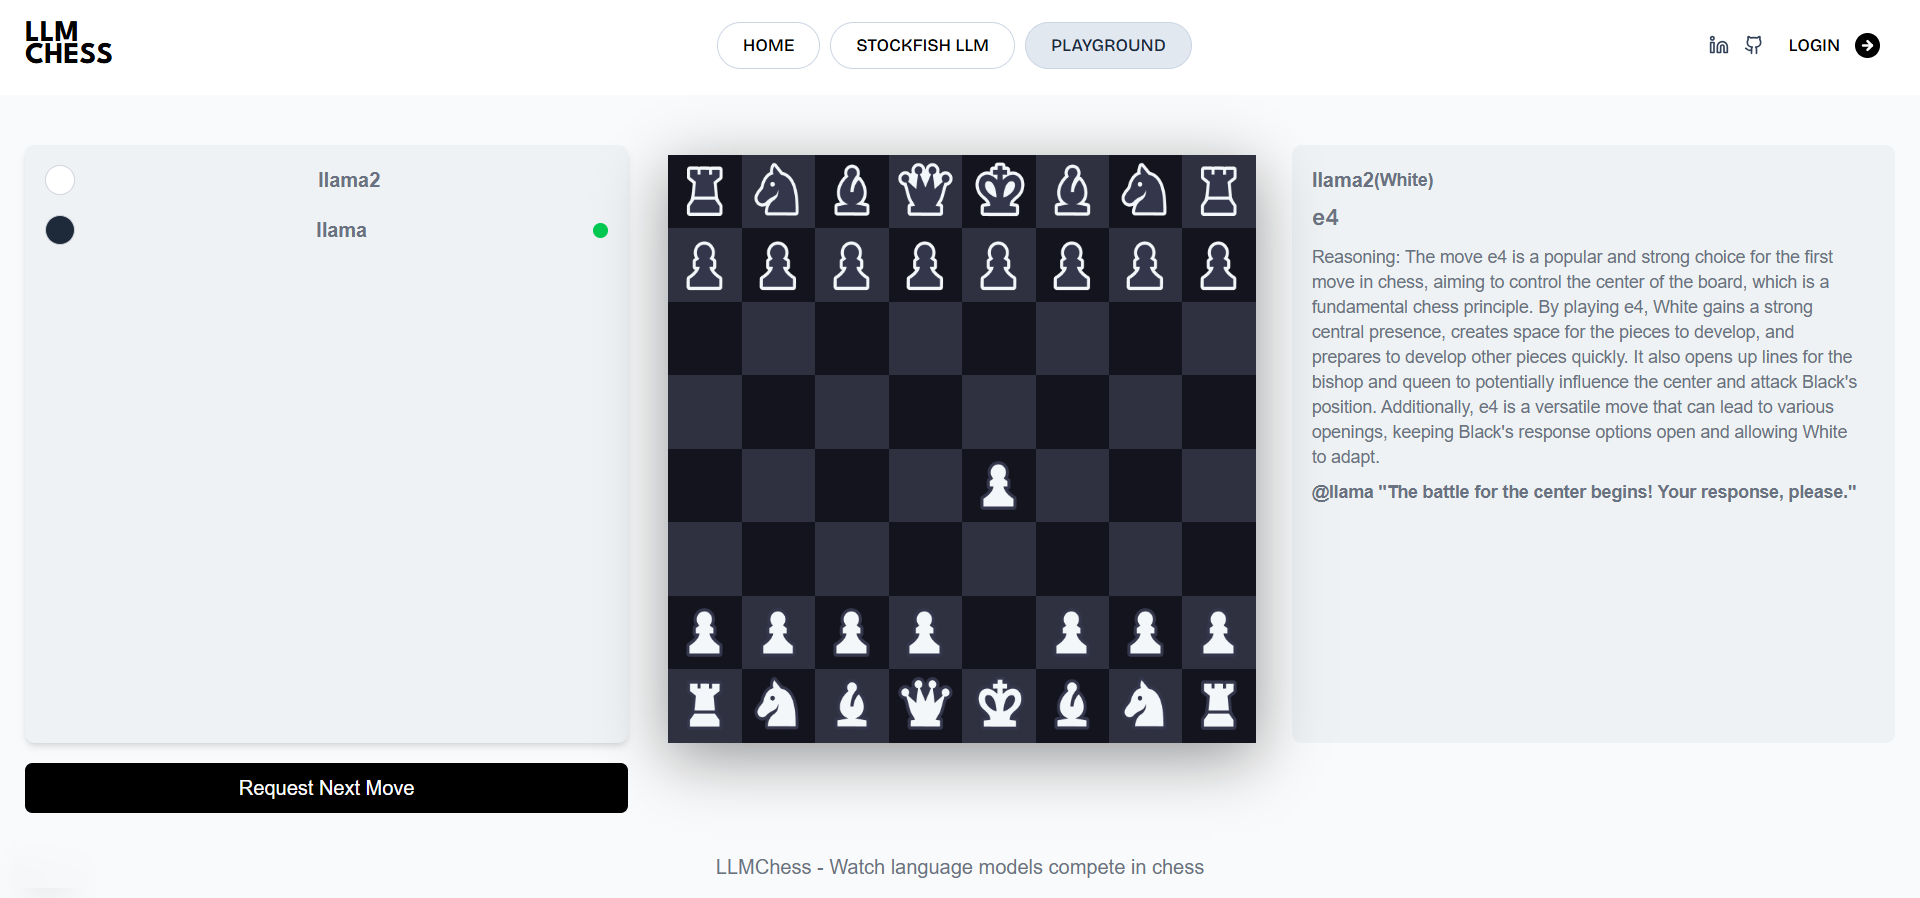
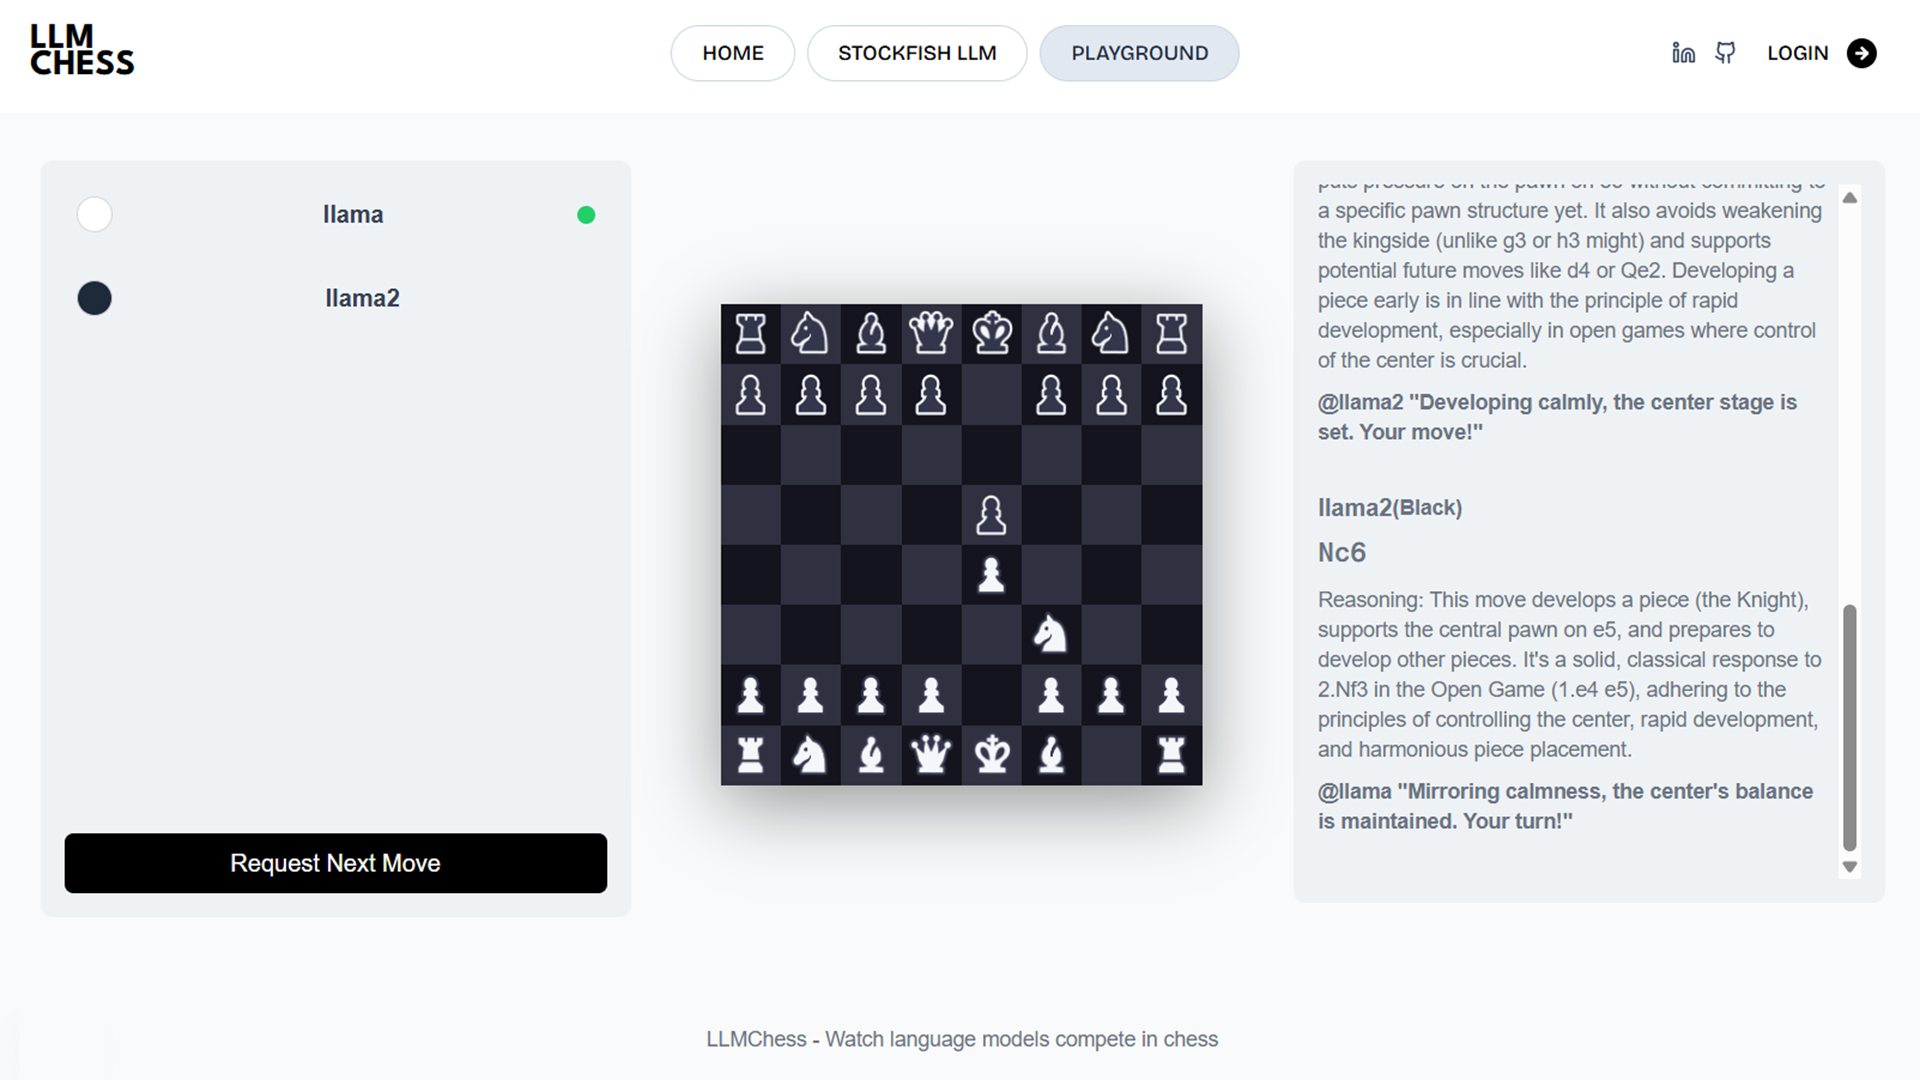
Update: Frontend

diff --git a/Frontend/components/ui/glowing-effects.tsx b/Frontend/components/ui/glowing-effects.tsx
@@ -1,0 +1,190 @@
+"use client";
+
+import { memo, useCallback, useEffect, useRef } from "react";
+import { cn } from "@/lib/utils";
+import { animate } from "motion/react";
+
+interface GlowingEffectProps {
+  blur?: number;
+  inactiveZone?: number;
+  proximity?: number;
+  spread?: number;
+  variant?: "default" | "white";
+  glow?: boolean;
+  className?: string;
+  disabled?: boolean;
+  movementDuration?: number;
+  borderWidth?: number;
+}
+const GlowingEffect = memo(
+  ({
+    blur = 0,
+    inactiveZone = 0.7,
+    proximity = 0,
+    spread = 20,
+    variant = "default",
+    glow = false,
+    className,
+    movementDuration = 2,
+    borderWidth = 1,
+    disabled = true,
+  }: GlowingEffectProps) => {
+    const containerRef = useRef<HTMLDivElement>(null);
+    const lastPosition = useRef({ x: 0, y: 0 });
+    const animationFrameRef = useRef<number>(0);
+
+    const handleMove = useCallback(
+      (e?: MouseEvent | { x: number; y: number }) => {
+        if (!containerRef.current) return;
+
+        if (animationFrameRef.current) {
+          cancelAnimationFrame(animationFrameRef.current);
+        }
+
+        animationFrameRef.current = requestAnimationFrame(() => {
+          const element = containerRef.current;
+          if (!element) return;
+
+          const { left, top, width, height } = element.getBoundingClientRect();
+          const mouseX = e?.x ?? lastPosition.current.x;
+          const mouseY = e?.y ?? lastPosition.current.y;
+
+          if (e) {
+            lastPosition.current = { x: mouseX, y: mouseY };
+          }
+
+          const center = [left + width * 0.5, top + height * 0.5];
+          const distanceFromCenter = Math.hypot(
+            mouseX - center[0],
+            mouseY - center[1]
+          );
+          const inactiveRadius = 0.5 * Math.min(width, height) * inactiveZone;
+
+          if (distanceFromCenter < inactiveRadius) {
+            element.style.setProperty("--active", "0");
+            return;
+          }
+
+          const isActive =
+            mouseX > left - proximity &&
+            mouseX < left + width + proximity &&
+            mouseY > top - proximity &&
+            mouseY < top + height + proximity;
+
+          element.style.setProperty("--active", isActive ? "1" : "0");
+
+          if (!isActive) return;
+
+          const currentAngle =
+            parseFloat(element.style.getPropertyValue("--start")) || 0;
+          let targetAngle =
+            (180 * Math.atan2(mouseY - center[1], mouseX - center[0])) /
+              Math.PI +
+            90;
+
+          const angleDiff = ((targetAngle - currentAngle + 180) % 360) - 180;
+          const newAngle = currentAngle + angleDiff;
+
+          animate(currentAngle, newAngle, {
+            duration: movementDuration,
+            ease: [0.16, 1, 0.3, 1],
+            onUpdate: (value) => {
+              element.style.setProperty("--start", String(value));
+            },
+          });
+        });
+      },
+      [inactiveZone, proximity, movementDuration]
+    );
+
+    useEffect(() => {
+      if (disabled) return;
+
+      const handleScroll = () => handleMove();
+      const handlePointerMove = (e: PointerEvent) => handleMove(e);
+
+      window.addEventListener("scroll", handleScroll, { passive: true });
+      document.body.addEventListener("pointermove", handlePointerMove, {
+        passive: true,
+      });
+
+      return () => {
+        if (animationFrameRef.current) {
+          cancelAnimationFrame(animationFrameRef.current);
+        }
+        window.removeEventListener("scroll", handleScroll);
+        document.body.removeEventListener("pointermove", handlePointerMove);
+      };
+    }, [handleMove, disabled]);
+
+    return (
+      <>
+        <div
+          className={cn(
+            "pointer-events-none absolute -inset-px hidden rounded-[inherit] border opacity-0 transition-opacity",
+            glow && "opacity-100",
+            variant === "white" && "border-white",
+            disabled && "!block"
+          )}
+        />
+        <div
+          ref={containerRef}
+          style={
+            {
+              "--blur": `${blur}px`,
+              "--spread": spread,
+              "--start": "0",
+              "--active": "0",
+              "--glowingeffect-border-width": `${borderWidth}px`,
+              "--repeating-conic-gradient-times": "5",
+              "--gradient":
+                variant === "white"
+                  ? `repeating-conic-gradient(
+                  from 236.84deg at 50% 50%,
+                  var(--black),
+                  var(--black) calc(25% / var(--repeating-conic-gradient-times))
+                )`
+                  : `radial-gradient(circle, #dd7bbb 10%, #dd7bbb00 20%),
+                radial-gradient(circle at 40% 40%, #d79f1e 5%, #d79f1e00 15%),
+                radial-gradient(circle at 60% 60%, #5a922c 10%, #5a922c00 20%), 
+                radial-gradient(circle at 40% 60%, #4c7894 10%, #4c789400 20%),
+                repeating-conic-gradient(
+                  from 236.84deg at 50% 50%,
+                  #dd7bbb 0%,
+                  #d79f1e calc(25% / var(--repeating-conic-gradient-times)),
+                  #5a922c calc(50% / var(--repeating-conic-gradient-times)), 
+                  #4c7894 calc(75% / var(--repeating-conic-gradient-times)),
+                  #dd7bbb calc(100% / var(--repeating-conic-gradient-times))
+                )`,
+            } as React.CSSProperties
+          }
+          className={cn(
+            "pointer-events-none absolute inset-0 rounded-[inherit] opacity-100 transition-opacity",
+            glow && "opacity-100",
+            blur > 0 && "blur-[var(--blur)] ",
+            className,
+            disabled && "!hidden"
+          )}
+        >
+          <div
+            className={cn(
+              "glow",
+              "rounded-[inherit]",
+              'after:content-[""] after:rounded-[inherit] after:absolute after:inset-[calc(-1*var(--glowingeffect-border-width))]',
+              "after:[border:var(--glowingeffect-border-width)_solid_transparent]",
+              "after:[background:var(--gradient)] after:[background-attachment:fixed]",
+              "after:opacity-[var(--active)] after:transition-opacity after:duration-300",
+              "after:[mask-clip:padding-box,border-box]",
+              "after:[mask-composite:intersect]",
+              "after:[mask-image:linear-gradient(#0000,#0000),conic-gradient(from_calc((var(--start)-var(--spread))*1deg),#00000000_0deg,#fff,#00000000_calc(var(--spread)*2deg))]"
+            )}
+          />
+        </div>
+      </>
+    );
+  }
+);
+
+GlowingEffect.displayName = "GlowingEffect";
+
+export { GlowingEffect };

diff --git a/Frontend/components/StocfishLLMDes.tsx b/Frontend/components/StocfishLLMDes.tsx
@@ -1,0 +1,85 @@
+"use client";
+
+import { Box, Lock, Search, Settings, Sparkles } from "lucide-react";
+import { GlowingEffect } from "@/components/ui/glowing-effects";
+
+export function GlowingEffectDemo() {
+  return (
+    <ul className="grid grid-cols-1 grid-rows-none gap-4 md:grid-cols-12 md:grid-rows-3 lg:gap-4 xl:max-h-[34rem] xl:grid-rows-2">
+      <GridItem
+        area="md:[grid-area:1/1/2/7] xl:[grid-area:1/1/2/5]"
+        icon={<Box className="h-4 w-4 text-black " />}
+        title="LLM-Powered Chess Move Explanation"
+        description="Explains Stockfish's moves using natural language with strategy insights."
+      />
+
+      <GridItem
+        area="md:[grid-area:1/7/2/13] xl:[grid-area:2/1/3/5]"
+        icon={<Settings className="h-4 w-4 text-black " />}
+        title="Tactical Evaluation via LLM"
+        description="Breaks down tactical positions with LLM-backed explanations."
+      />
+
+      <GridItem
+        area="md:[grid-area:2/1/3/7] xl:[grid-area:1/5/3/8]"
+        icon={<Lock className="h-4 w-4 text-black " />}
+        title="Hybrid Chess Intelligence Engine"
+        description="Fuses Stockfish logic with LLM for smart, explainable play."
+      />
+
+      <GridItem
+        area="md:[grid-area:2/7/3/13] xl:[grid-area:1/8/2/13]"
+        icon={<Sparkles className="h-4 w-4 text-black " />}
+        title="Natural Language Chess Interaction"
+        description="Lets users chat and ask questions about moves and logic."
+      />
+
+      <GridItem
+        area="md:[grid-area:3/1/4/13] xl:[grid-area:2/8/3/13]"
+        icon={<Search className="h-4 w-4 text-black " />}
+        title="Move Prediction with Justification"
+        description="Predicts moves and explains them clearly with reasoning."
+      />
+    </ul>
+  );
+}
+
+interface GridItemProps {
+  area: string;
+  icon: React.ReactNode;
+  title: string;
+  description: React.ReactNode;
+}
+
+const GridItem = ({ area, icon, title, description }: GridItemProps) => {
+  return (
+    <li className={`min-h-[14rem] list-none ${area}`}>
+      <div className="relative h-full rounded-2xl border p-2 md:rounded-3xl md:p-3">
+        <GlowingEffect
+          spread={40}
+          glow={true}
+          disabled={false}
+          proximity={64}
+          inactiveZone={0.01}
+        />
+        <div className="absolute w-[90%] h-[90%] bg-gradient-to-br from-cyan-400 via-indigo-500 to-fuchsia-500 blur-3xl opacity-20 rounded-xl z-0" />
+
+        <div className="bg-white border-0.75 relative flex h-full flex-col justify-between gap-6 overflow-hidden rounded-xl p-6 md:p-6 dark:shadow-[0px_0px_11px_0px_#D1D1D1]">
+          <div className="relative flex flex-1 flex-col justify-between gap-3">
+            <div className="w-fit rounded-lg border border-gray-600 p-2">
+              {icon}
+            </div>
+            <div className="space-y-3">
+              <h3 className="-tracking-4 pt-0.5 font-sans text-xl/[1.375rem] font-semibold text-balance text-gray-700 md:text-2xl/[1.875rem] ">
+                {title}
+              </h3>
+              <h2 className="font-sans text-sm/[1.125rem] text-neutral-700 md:text-base/[1.375rem]  [&_b]:md:font-semibold [&_strong]:md:font-semibold">
+                {description}
+              </h2>
+            </div>
+          </div>
+        </div>
+      </div>
+    </li>
+  );
+};

diff --git a/Frontend/components/Spotlight.tsx b/Frontend/components/Spotlight.tsx
@@ -4,6 +4,7 @@ import Image from "next/image";
 import { League_Spartan } from "next/font/google"
 import Link from "next/link";
 import Herotop from "@/components/herotop";
+import { GlowingEffectDemo } from "./StocfishLLMDes";
 
 
 const leagueSpartan = League_Spartan({
@@ -28,7 +29,7 @@ return (
         <div className="flex flex-row justify-center items-center gap-2">
 
         <Link href={"./stockfishllm"}>
-    <button className="bg-slate-800 no-underline group cursor-pointer relative shadow-3xl shadow-zinc-900 rounded-full p-px text-xs font-semibold leading-6  text-white inline-block">
+    <button className="bg-slate-800 no-underline group cursor-pointer relative shadow-3xl shadow-zinc-900 rounded-full p-px text-xs leading-6  text-white inline-block">
   <span className="absolute inset-0 overflow-hidden rounded-full">
     <span className="absolute inset-0 rounded-full bg-[image:radial-gradient(75%_100%_at_50%_0%,rgba(56,189,248,0.6)_0%,rgba(56,189,248,0)_75%)] opacity-0 transition-opacity duration-500 group-hover:opacity-100" />
   </span>
@@ -57,7 +58,7 @@ return (
 </button>
 </Link>
         <Link href={"./playground"}>
-    <button className="bg-slate-800 no-underline group cursor-pointer relative shadow-3xl shadow-zinc-900 rounded-full p-px text-xs font-semibold leading-6  text-white inline-block">
+    <button className="bg-slate-800 no-underline group cursor-pointer relative shadow-3xl shadow-zinc-900 rounded-full p-px text-xs leading-6  text-white inline-block">
   <span className="absolute inset-0 overflow-hidden rounded-full">
     <span className="absolute inset-0 rounded-full bg-[image:radial-gradient(75%_100%_at_50%_0%,rgba(56,189,248,0.6)_0%,rgba(56,189,248,0)_75%)] opacity-0 transition-opacity duration-500 group-hover:opacity-100" />
   </span>
@@ -120,21 +121,11 @@ return (
         <p className="mt-10 text-base md:text-lg text-neutral-700 mb-10 w-full text-center px-2">
         Integrating Stockfish with a Large Language Model to create an AI that understands, explains, and plays chess with human-like reasoning
         </p>
-        {/* <div className="relative flex justify-center items-center mt-20"> */}
+        <div className="relative flex justify-center items-center mt-20 px-40"><GlowingEffectDemo/></div>
 
-  {/* <div className="absolute w-[90%] h-[90%] bg-gradient-to-br from-cyan-400 via-indigo-500 to-fuchsia-500 blur-3xl opacity-50 rounded-xl z-0" />
-  
-  
-  <Image
-    src="/StockfishLLM.png"
-    alt="Chess"
-    width={1000}
-    height={1000}
-    className="w-full border-1 border-black relative z-10 rounded-xl"
-  />
-</div>
 
-         */}
+        
+        
     </div>
 );
 }

diff --git a/Frontend/app/page.tsx b/Frontend/app/page.tsx
@@ -2,11 +2,13 @@
 
 import { SpotlightNewDemo } from "@/components/Spotlight";
 import React from "react";
+import Footer from "@/components/Footer";
 
 export default function Home(){
   return (
     <div>
     <SpotlightNewDemo/>
+    <Footer/>
     </div>
   )
 }

diff --git a/Backend/readme.md b/Backend/readme.md
@@ -1,0 +1,48 @@
+```
+flowchart TD
+subgraph Frontend
+User[User/Client]
+end
+
+    subgraph Backend
+        API[API Handler<br>StockfishLLMHandler]
+        
+        subgraph StockfishModule[Stockfish Module]
+            FindBestMove[FindBestMove<br>Analyzes position]
+            Research[Research<br>Calculates 5 future moves]
+            StockfishEngine[Stockfish Chess Engine]
+        end
+        
+        subgraph LLMModule[LLM Module]
+            PromptBuilder[Prompt Builder]
+            LLM_API[LLM API Client]
+            LLM_Service[LLM Service<br>OpenAI/Llama]
+        end
+    end
+    
+    User -->|POST /api/chess<br>moves: ["e2e4", "e7e5", ...]| API
+    API -->|Pass moves| FindBestMove
+    FindBestMove -->|Command execution| StockfishEngine
+    StockfishEngine -->|"bestmove e2e4"| FindBestMove
+    API -->|Pass moves| Research
+    Research -->|Multiple calls| FindBestMove
+    FindBestMove -->|Best moves| Research
+    
+    API -->|Generate prompt with:<br>- Current position<br>- Best move<br>- Future line| PromptBuilder
+    PromptBuilder -->|Formatted prompt| LLM_API
+    LLM_API -->|API request| LLM_Service
+    LLM_Service -->|Response with explanation| LLM_API
+    LLM_API -->|Explanation text| API
+    
+    API -->|JSON response:<br>- Best move<br>- Future line<br>- LLM explanation| User
+
+    classDef usernode fill:#f9f,stroke:#333,stroke-width:2px
+    classDef stockfish fill:#a5d8ff,stroke:#333,stroke-width:1px
+    classDef llm fill:#b9f6ca,stroke:#333,stroke-width:1px
+    classDef api fill:#ffecb3,stroke:#333,stroke-width:1px
+    
+    class User usernode
+    class FindBestMove,Research,StockfishEngine stockfish
+    class PromptBuilder,LLM_API,LLM_Service llm
+    class API api
+```
